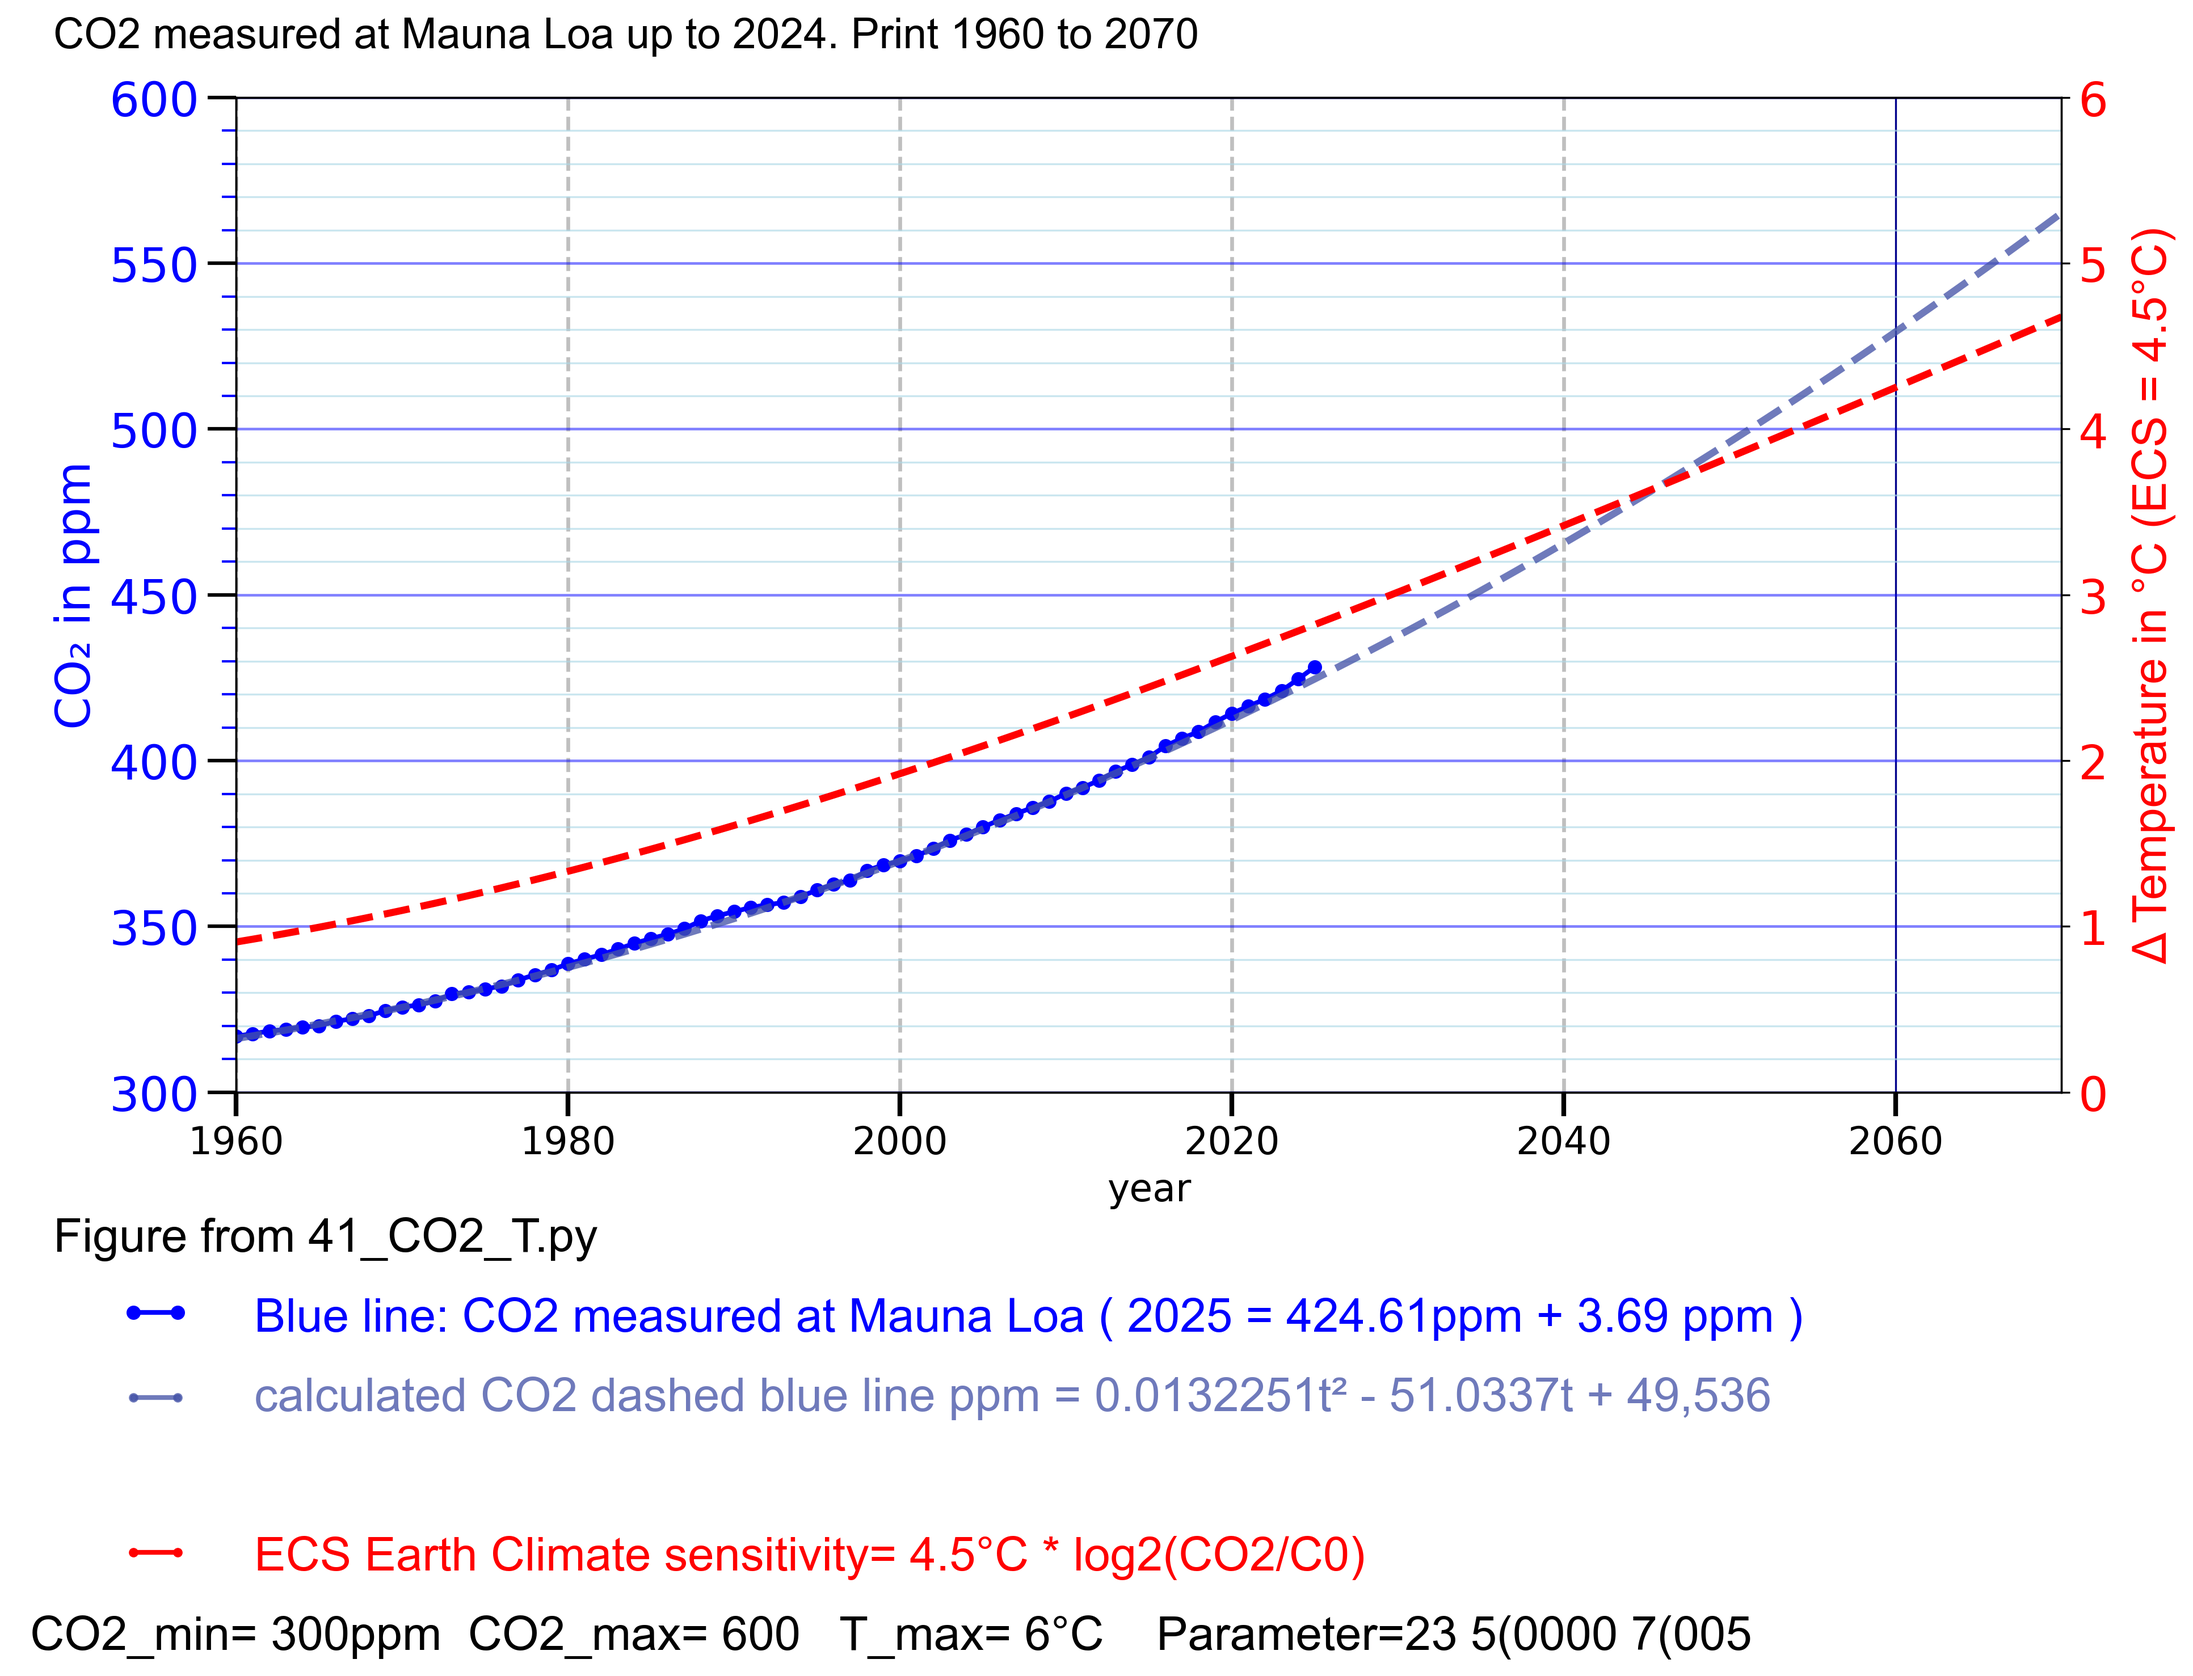
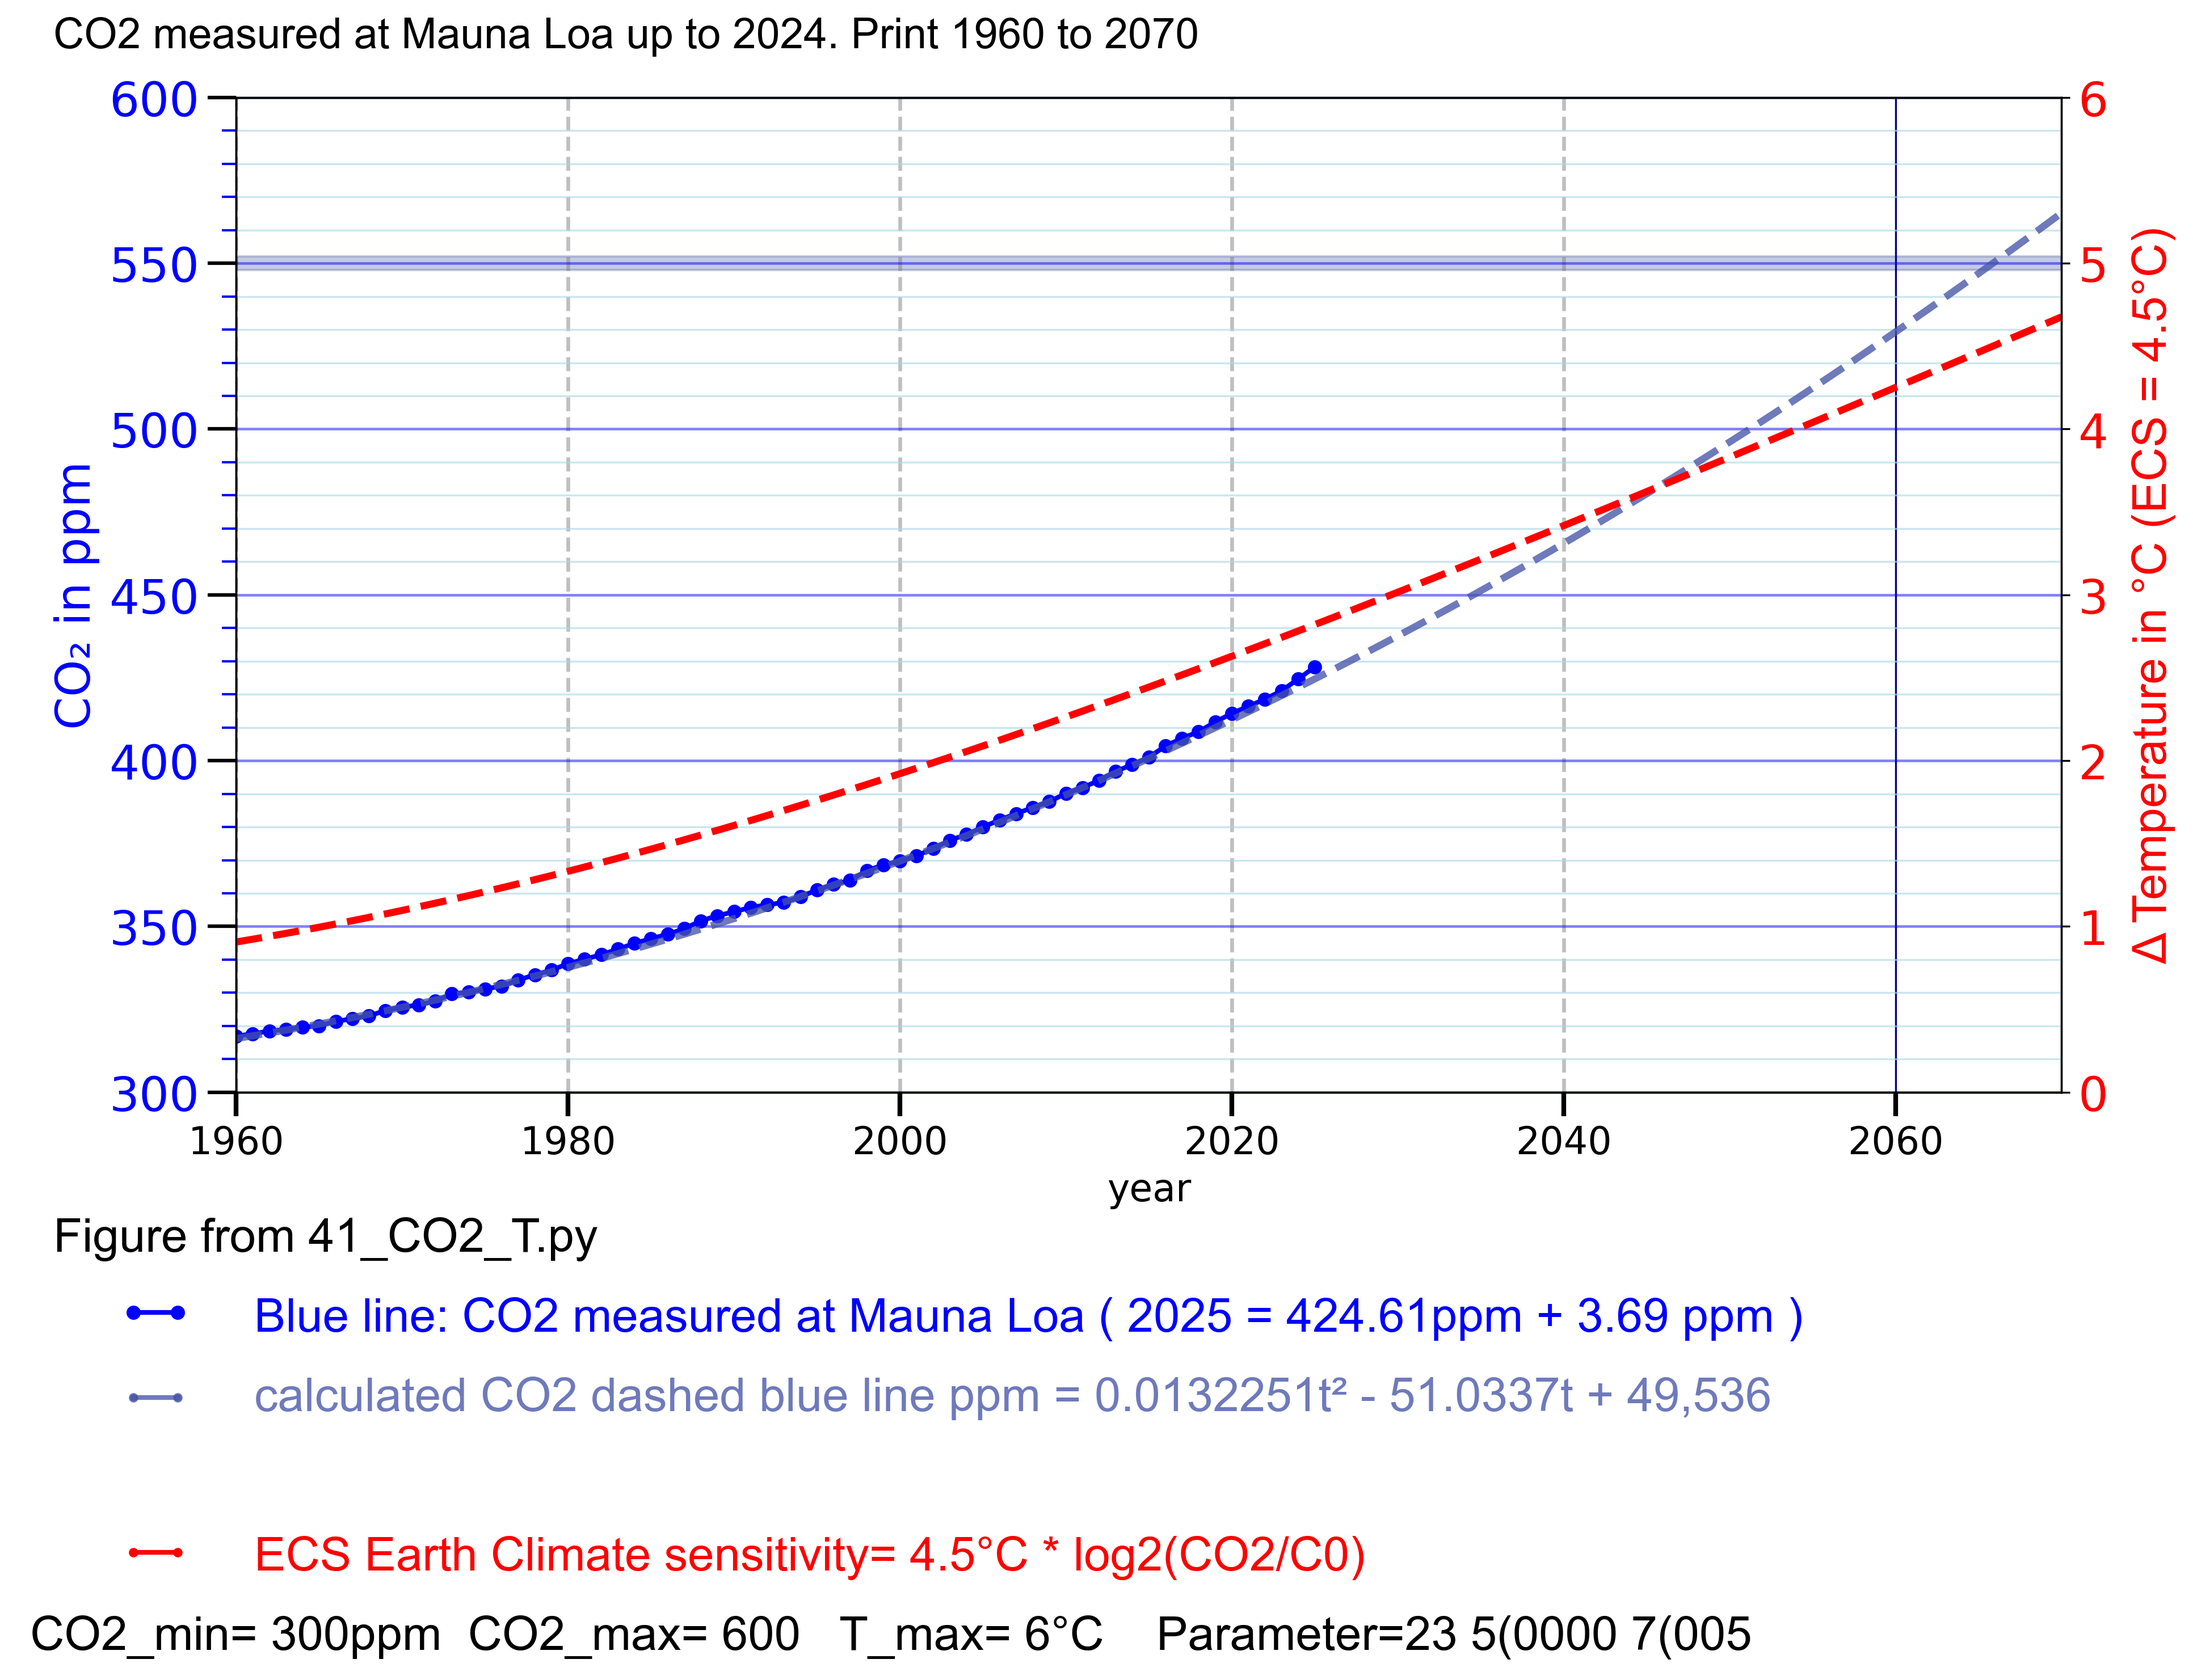
41r9_CO2_T.py C280=275 ppm

Changed region(s): [[0.1242, 0.1245, 0.9314, 0.1868]]

diff --git a/41_CO2_T.py b/41_CO2_T.py
@@ -1,4 +1,4 @@
-# 41r8_CO2_T.py C280=275 ppm
+# 41r9_CO2_T.py C280=275 ppm
 # Thomas Boettcher
 # part 1 configure 
 # part 2 plot CO2 Mauna Loa
@@ -268,6 +268,16 @@ if scale_mode == 10:
 else:
    ax1.set_ylim(y_min, y_max)
    # end part 2 Mauna Loa
+
+#ax73.axhspan(1.5, 2.0, color="#B3D9FF", alpha=0.25, zorder=0) # color="lightblue" 2°C streifen
+#ax73.axvspan(2024, 2026, color="#B3D9FF", alpha=0.25, zorder=0) # vertical bar'
+# c3 = "#4554A8C6"
+ax1.axhspan(1098, 1102, color=c3, alpha=0.25, zorder=0)      # 1120 ppm horicontal stripe
+ax1.axhspan(548, 552, color=c3, alpha=0.3, zorder=0)        # 560 ppm horicontal stripe
+#ax72.axvspan(2065, 2066, color=c3, alpha=0.4, zorder=0) # vertical bar'
+#ax72.axvspan(2174, 2175, color=c3, alpha=0.25, zorder=0) # vertical bar'
+
+
 
 
 # -----------------------------
